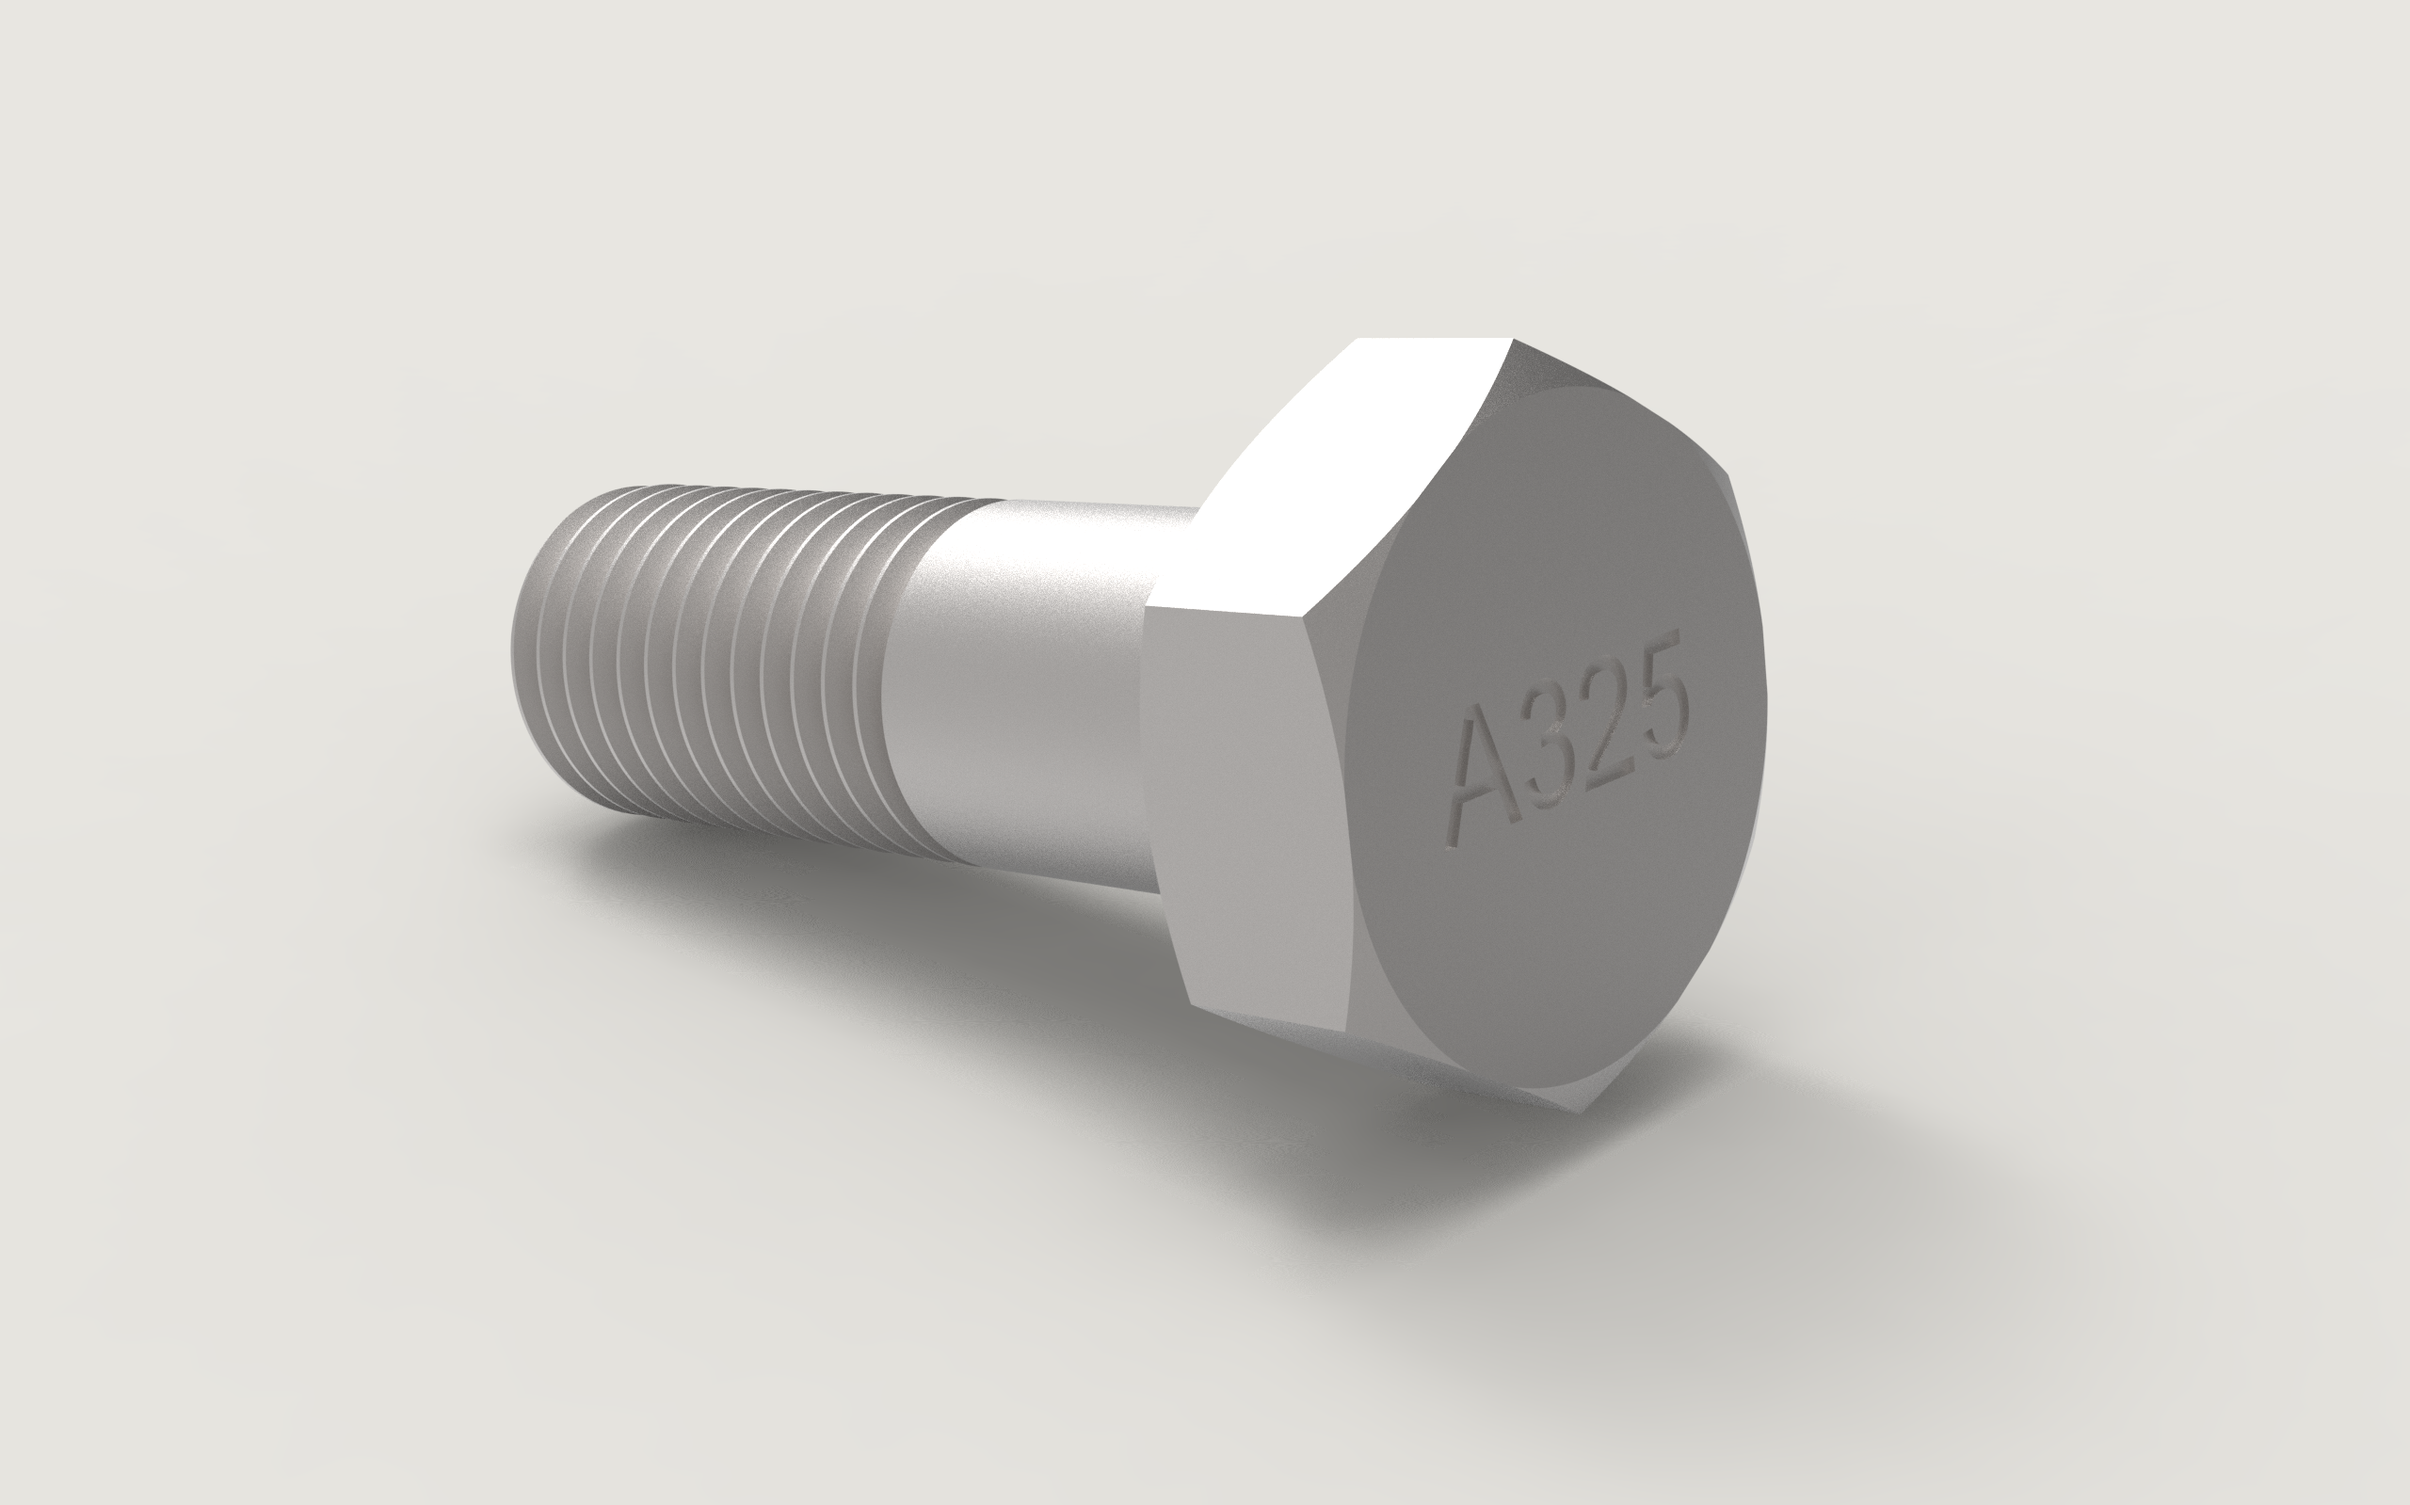
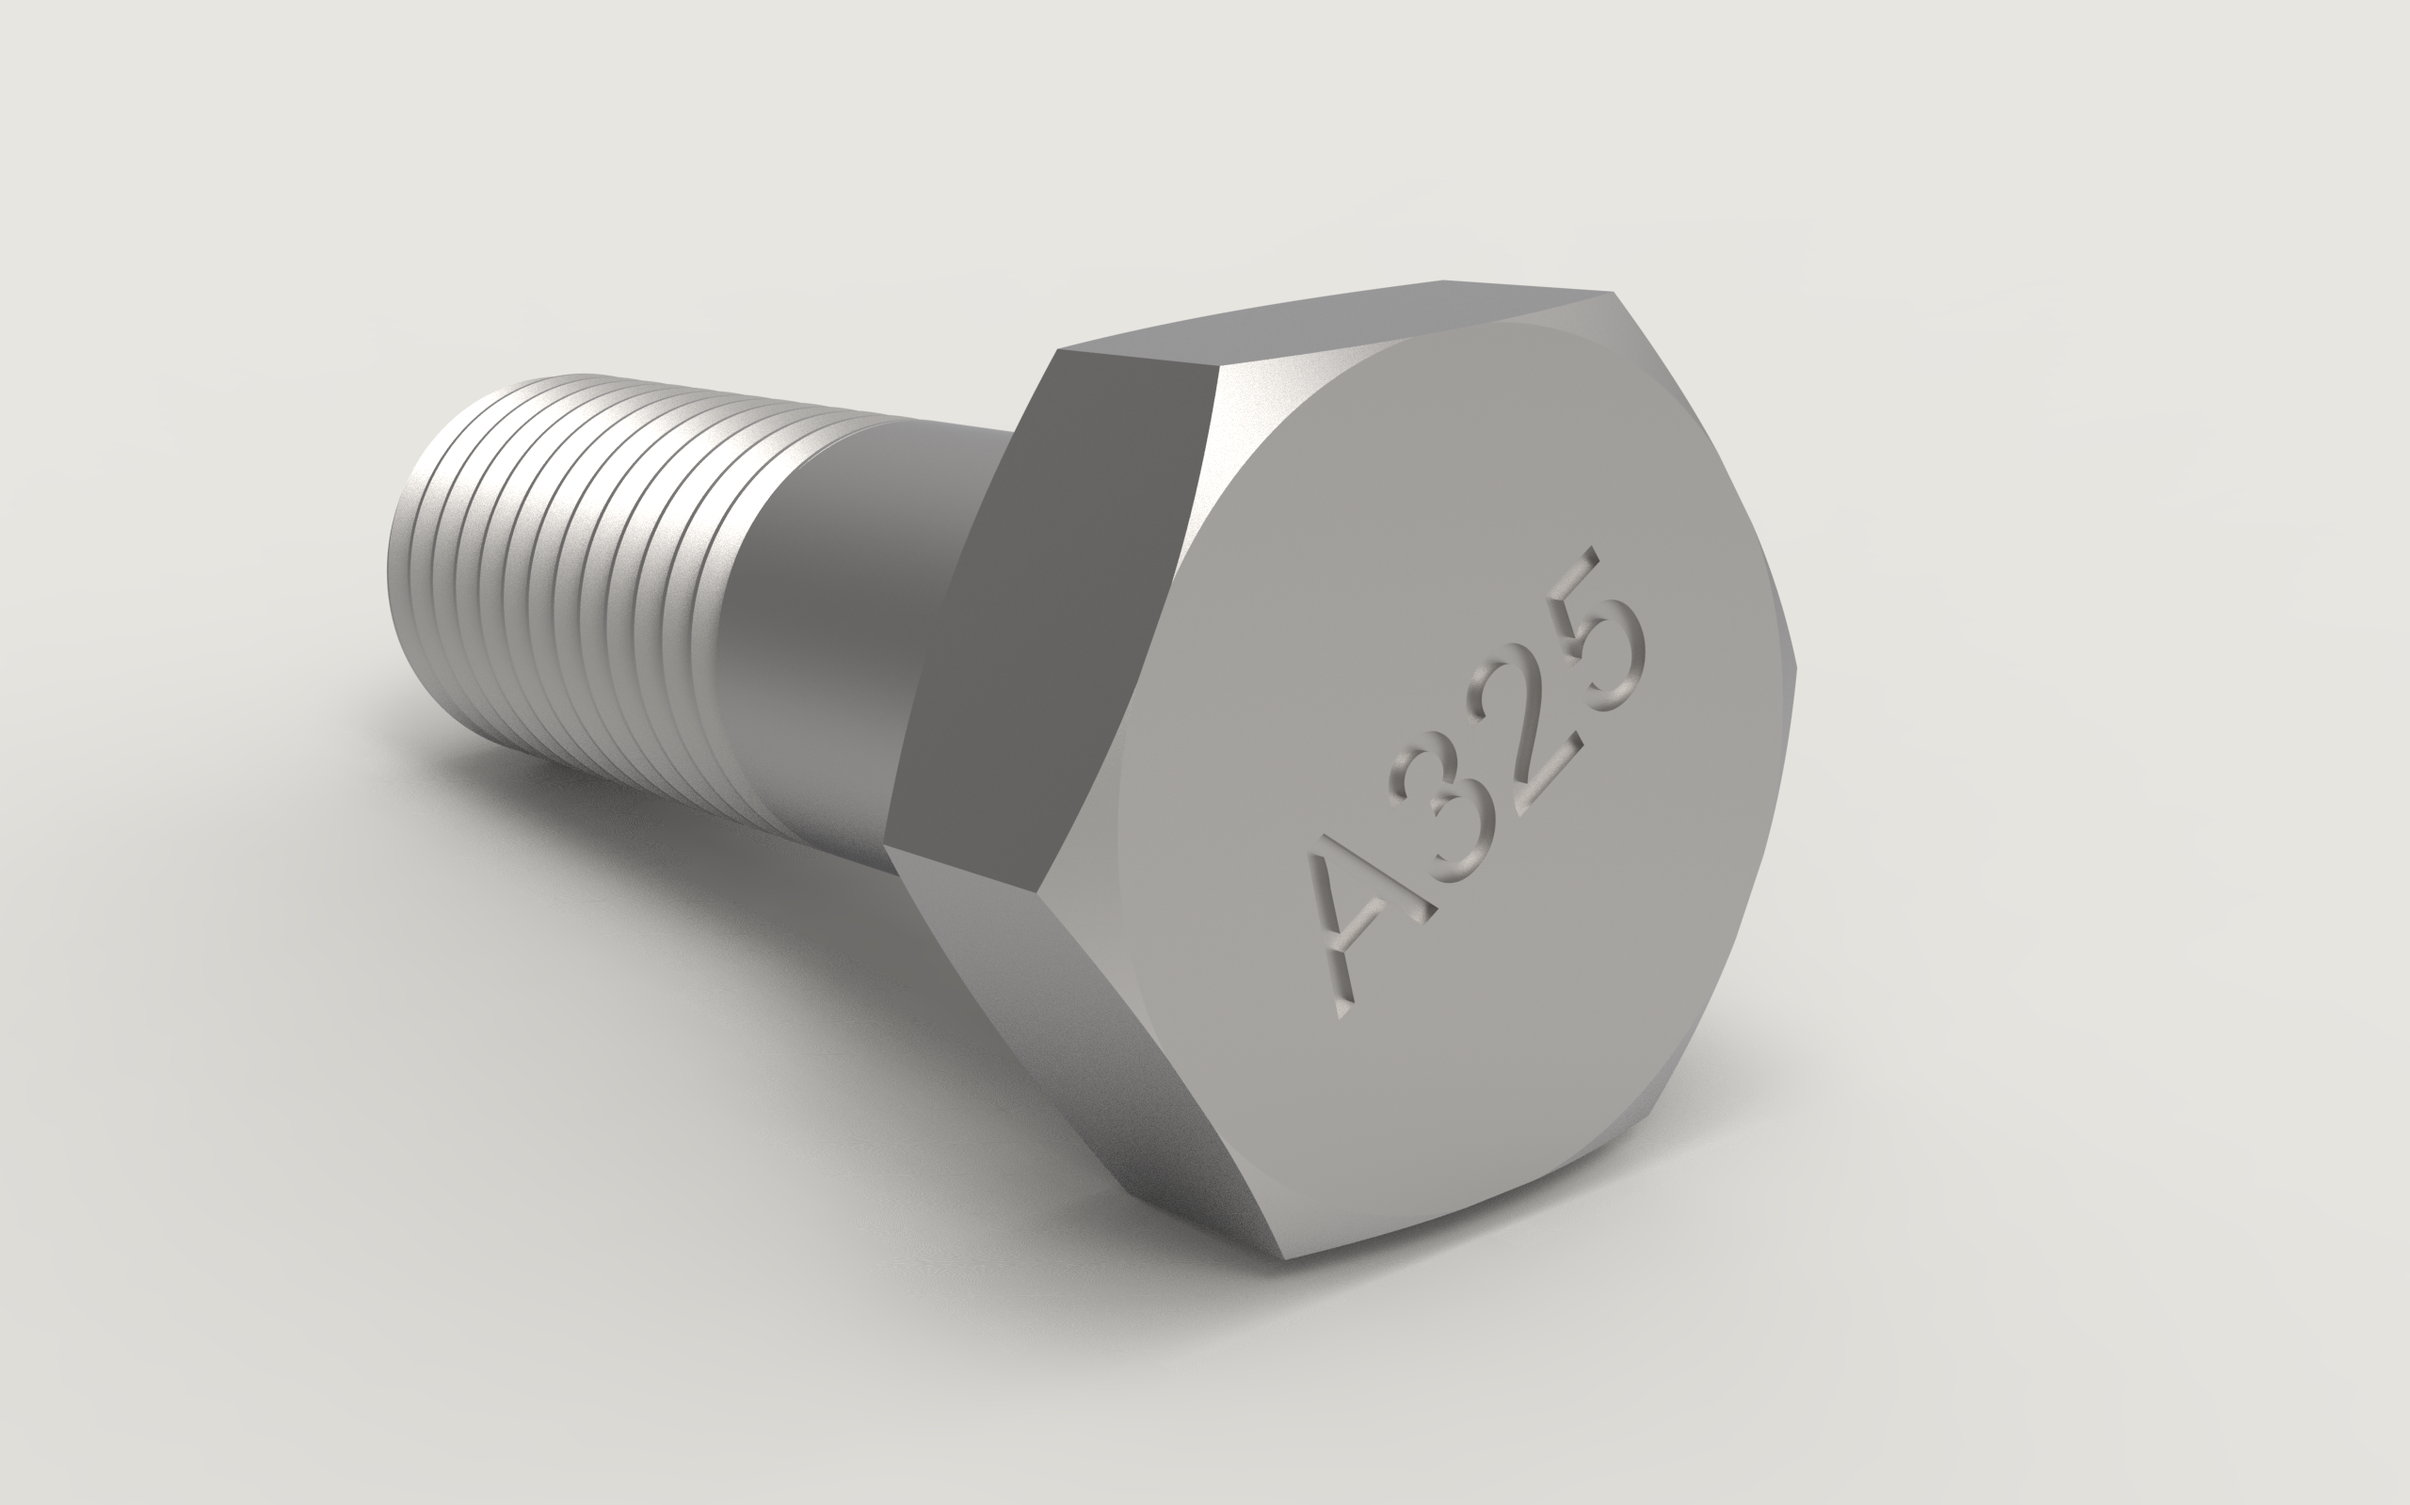
Renders, u-bolts trim, hollo-bolt placard, seamless stainless composite
- A325: swap structural-heavy-hex-bolt-1 / -2 with new tighter render
- U-bolts: remove V-bend / muffler / made-to-print cards + helper SVGs;
  pare hero copy & meta to the three remaining stocked profiles
- Homepage Hollo-Bolt placard: widen container to 1440px and re-weight
  grid to 0.85fr / 1.15fr so the image side matches other placards
- Stainless placard: rebuild composite with row-local chroma key against
  a canvas built from the render's own gradient strip — no more visible
  render-edge ghost

Changed region(s): [[0.1562, 0.1839, 0.8125, 0.9193]]

diff --git a/src/app/u-bolts/page.tsx b/src/app/u-bolts/page.tsx
@@ -9,7 +9,7 @@ import { QuoteFormPlaceholder } from "@/components/QuoteFormPlaceholder";
 export const metadata: Metadata = {
   title: "U-Bolts — Round, Square, Long Tangent & Custom Profiles",
   description:
-    "Standard and custom U-bolts for pipe, conduit, and structural support. Round and square bend, long-tangent, V-bolts, and made-to-print profiles. Carbon, alloy, 304, 316, hot-dip galvanized.",
+    "U-bolts for pipe, conduit, and structural support. Round-bend, square-bend, and long-tangent profiles in carbon, alloy, 304, 316, and hot-dip galvanized.",
 };
 
 export default function UBoltsPage() {
@@ -37,9 +37,9 @@ export default function UBoltsPage() {
               Infinite shapes.
             </h1>
             <p className="pp-hero-sub">
-              Round-bend, square-bend, long-tangent, and made-to-print U-bolts for pipe, conduit,
-              exhaust, structural support, and equipment clamping. Carbon, alloy, 304, 316, hot-dip
-              galvanized — stocked deep, bent in-house when stock won&apos;t fit.
+              Round-bend, square-bend, and long-tangent U-bolts for pipe, conduit, structural
+              support, and equipment clamping. Carbon, alloy, 304, 316, hot-dip galvanized —
+              stocked deep, bent in-house when stock won&apos;t fit.
             </p>
             <div className="pp-hero-ctas">
               <Link href="/quote" className="cf-pill cf-pill--blue">
@@ -53,7 +53,7 @@ export default function UBoltsPage() {
               <HeroStat val="¼″–2½″" label="Stock diameters" />
               <HeroStat val="A36" label="A193 · F593 · 316" />
               <HeroStat val="HDG" label="Plain · zinc · stainless" />
-              <HeroStat val="∞" label="Made-to-print profiles" />
+              <HeroStat val="3" label="Stocked bend profiles" />
             </div>
           </div>
           <div className="pp-hero-image">
@@ -97,13 +97,13 @@ export default function UBoltsPage() {
         <div className="pp-products-header">
           <div className="eyebrow">Profiles we run</div>
           <h2>
-            Six bend profiles.
+            Three bend profiles.
             <br />
             <i>One supplier.</i>
           </h2>
           <p>
-            The standard catalog runs round-bend over square-bend, plus the long-tangent and V-bend
-            variants the hangers and exhaust shops keep specifying.
+            The standard catalog runs round-bend over square-bend, plus the long-tangent variant
+            the hangers keep specifying.
           </p>
         </div>
         <div className="pp-products-grid">
@@ -130,30 +130,6 @@ export default function UBoltsPage() {
             desc="Round bend with extended thread length on the legs — for stacked saddles, multiple plates, insulated pipe, or where a longer reach is needed."
             metaBold="Custom leg length"
             metaRest=" · per drawing"
-          />
-          <ShapeCard
-            pnum="04 / V-bolt"
-            shape={<VBolt />}
-            title="V-bend U-bolt"
-            desc="Two-sided V profile that grips angle iron and tapered geometry. Common on guy-wire anchorages and angle-bracket assemblies."
-            metaBold="Angle clamping"
-            metaRest=" · grip stock per spec"
-          />
-          <ShapeCard
-            pnum="05 / Muffler / exhaust"
-            shape={<Muffler />}
-            title="Muffler U-bolt"
-            desc="Round-bend U-bolt with saddle clamp included — used on automotive and OEM exhaust, light-duty pipe joining, repair clamps."
-            metaBold="U-bolt + saddle"
-            metaRest=" · sold as set"
-          />
-          <ShapeCard
-            pnum="06 / Made-to-print"
-            shape={<MadeToPrint />}
-            title="Made-to-print U-bolts"
-            desc="Compound bends, oversized diameters, exotic material, weather-resistant coatings. If it can be drawn, we can quote it."
-            metaBold="Quote-basis"
-            metaRest=" · send a sketch or DXF"
           />
         </div>
       </section>
@@ -230,8 +206,8 @@ export default function UBoltsPage() {
                 hot-dip galvanized.
               </SpecCard>
               <SpecCard tag="ASTM A307" name="Grade A · B" grades={["Grade A", "Grade B"]}>
-                Low-carbon steel for general bolting service. Common on muffler U-bolts and OEM
-                exhaust hardware. A307-B for moderate-load, moderate-temperature joints.
+                Low-carbon steel for general bolting service — moderate-load, moderate-temperature
+                clamping. A307-B for pressure piping support and structural hangers.
               </SpecCard>
               <SpecCard tag="SAE J429" name="Grade 5 · 8" grades={["Heat-treated", "Q & T"]}>
                 Heat-treated U-bolts in SAE J429 Grade 5 and Grade 8 for higher-load, dynamic, or
@@ -294,7 +270,7 @@ export default function UBoltsPage() {
               fit. <i>That&apos;s fine.</i>
             </h2>
             <p>
-              Most jobs end up with at least one made-to-print U-bolt — odd pipe size, structural
+              Plenty of jobs end up needing a made-to-print U-bolt — odd pipe size, structural
               section that won&apos;t take a stock bend, exotic material, or a profile we&apos;ve
               never seen. That&apos;s our day job.
             </p>
@@ -356,7 +332,7 @@ export default function UBoltsPage() {
             <Coating
               title="Electro-zinc plate"
               spec="ASTM B633 SC1 / SC3"
-              desc="Bright zinc plate for indoor or light-duty outdoor service. Standard upgrade on muffler and HVAC U-bolts."
+              desc="Bright zinc plate for indoor or light-duty outdoor service. Standard upgrade on HVAC and conduit-support U-bolts."
             />
             <Coating
               title="Hot-dip galvanized"
@@ -662,41 +638,6 @@ function LongTangent() {
         <line x1="152" y1="125" x2="168" y2="125" />
         <line x1="152" y1="135" x2="168" y2="135" />
         <line x1="152" y1="145" x2="168" y2="145" />
-      </g>
-    </svg>
-  );
-}
-
-function VBolt() {
-  return (
-    <svg viewBox="0 0 200 160" aria-hidden="true">
-      <path d="M 40 150 L 40 80 L 100 50 L 160 80 L 160 150" />
-      <ThreadHash side="left" />
-      <ThreadHash side="right" />
-    </svg>
-  );
-}
-
-function Muffler() {
-  return (
-    <svg viewBox="0 0 200 160" aria-hidden="true">
-      <path d="M 40 150 L 40 90 A 60 60 0 0 1 160 90 L 160 150" />
-      <rect x="60" y="100" width="80" height="20" rx="2" />
-      <ThreadHash side="left" />
-      <ThreadHash side="right" />
-    </svg>
-  );
-}
-
-function MadeToPrint() {
-  return (
-    <svg viewBox="0 0 200 160" aria-hidden="true">
-      <path d="M 40 150 L 40 100 L 60 80 L 80 95 L 100 60 L 120 95 L 140 80 L 160 100 L 160 150" />
-      <g className="thread" strokeDasharray="3 3">
-        <line x1="32" y1="120" x2="48" y2="120" />
-        <line x1="32" y1="135" x2="48" y2="135" />
-        <line x1="152" y1="120" x2="168" y2="120" />
-        <line x1="152" y1="135" x2="168" y2="135" />
       </g>
     </svg>
   );

diff --git a/src/styles/cf-homepage.css b/src/styles/cf-homepage.css
@@ -348,9 +348,12 @@
   border-top: 1px solid var(--rule-soft);
 }
 .specialty-inner {
-  max-width: 1240px; margin: 0 auto;
+  /* Was 1240px / 1.05fr 0.95fr — the image side ended up smaller than the
+     .feat-image and .split placards elsewhere on the page. Wider container
+     + heavier weighting on the image column brings it up to ~1.4× area. */
+  max-width: 1440px; margin: 0 auto;
   display: grid;
-  grid-template-columns: 1.05fr 0.95fr;
+  grid-template-columns: 0.85fr 1.15fr;
   gap: 56px;
   align-items: stretch;
 }
